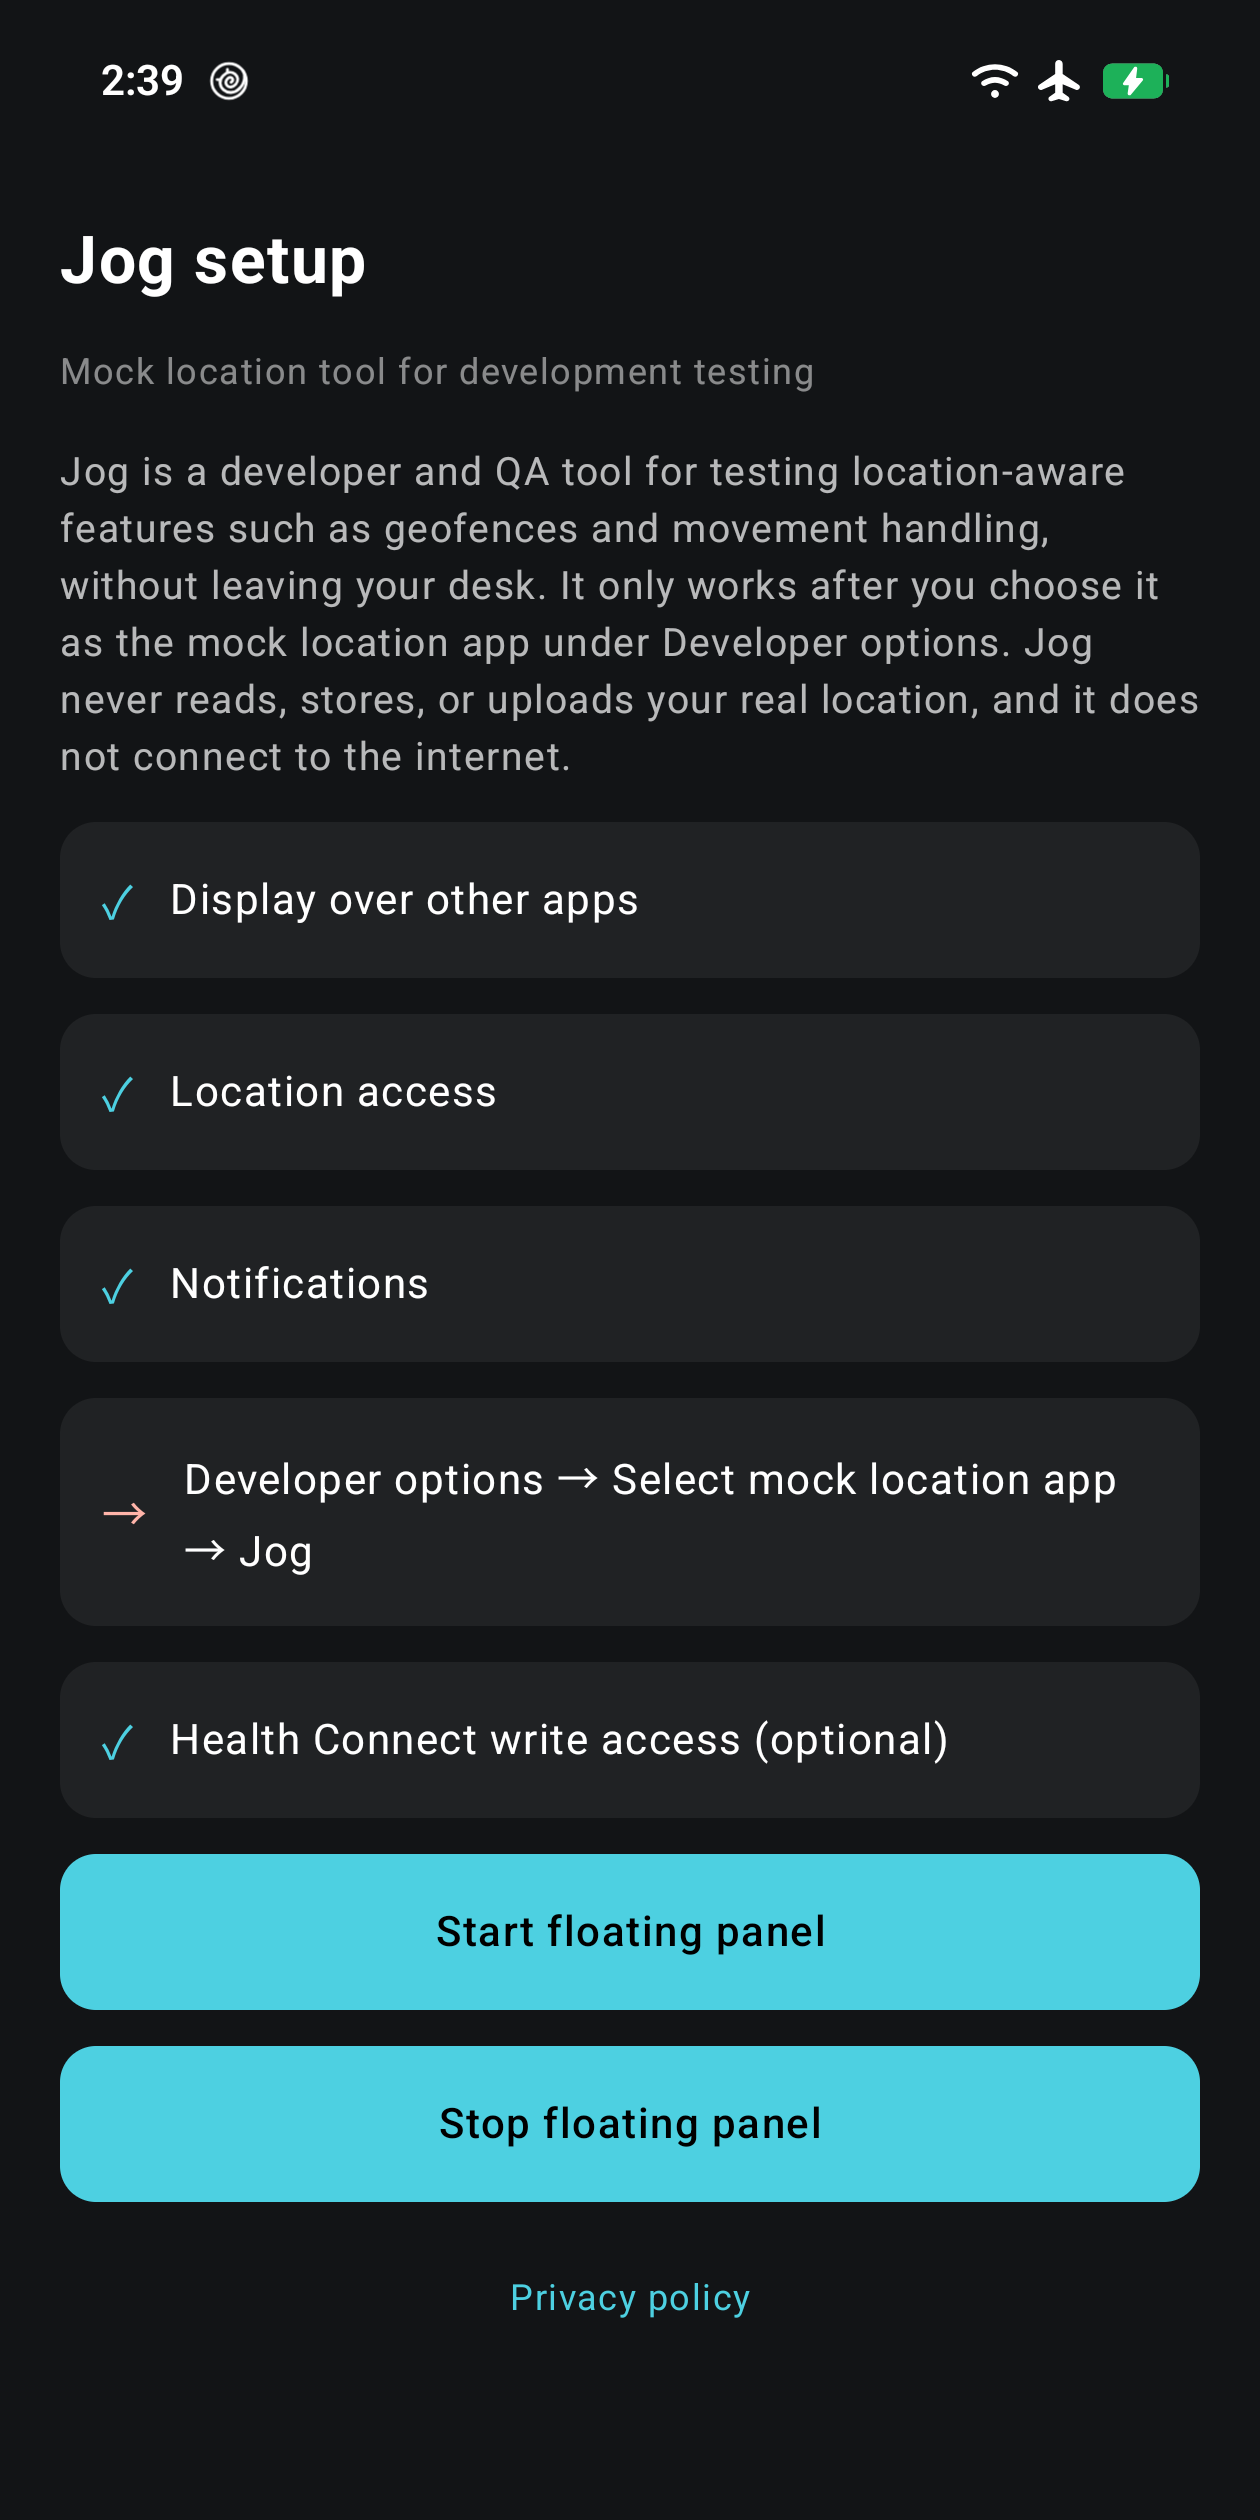
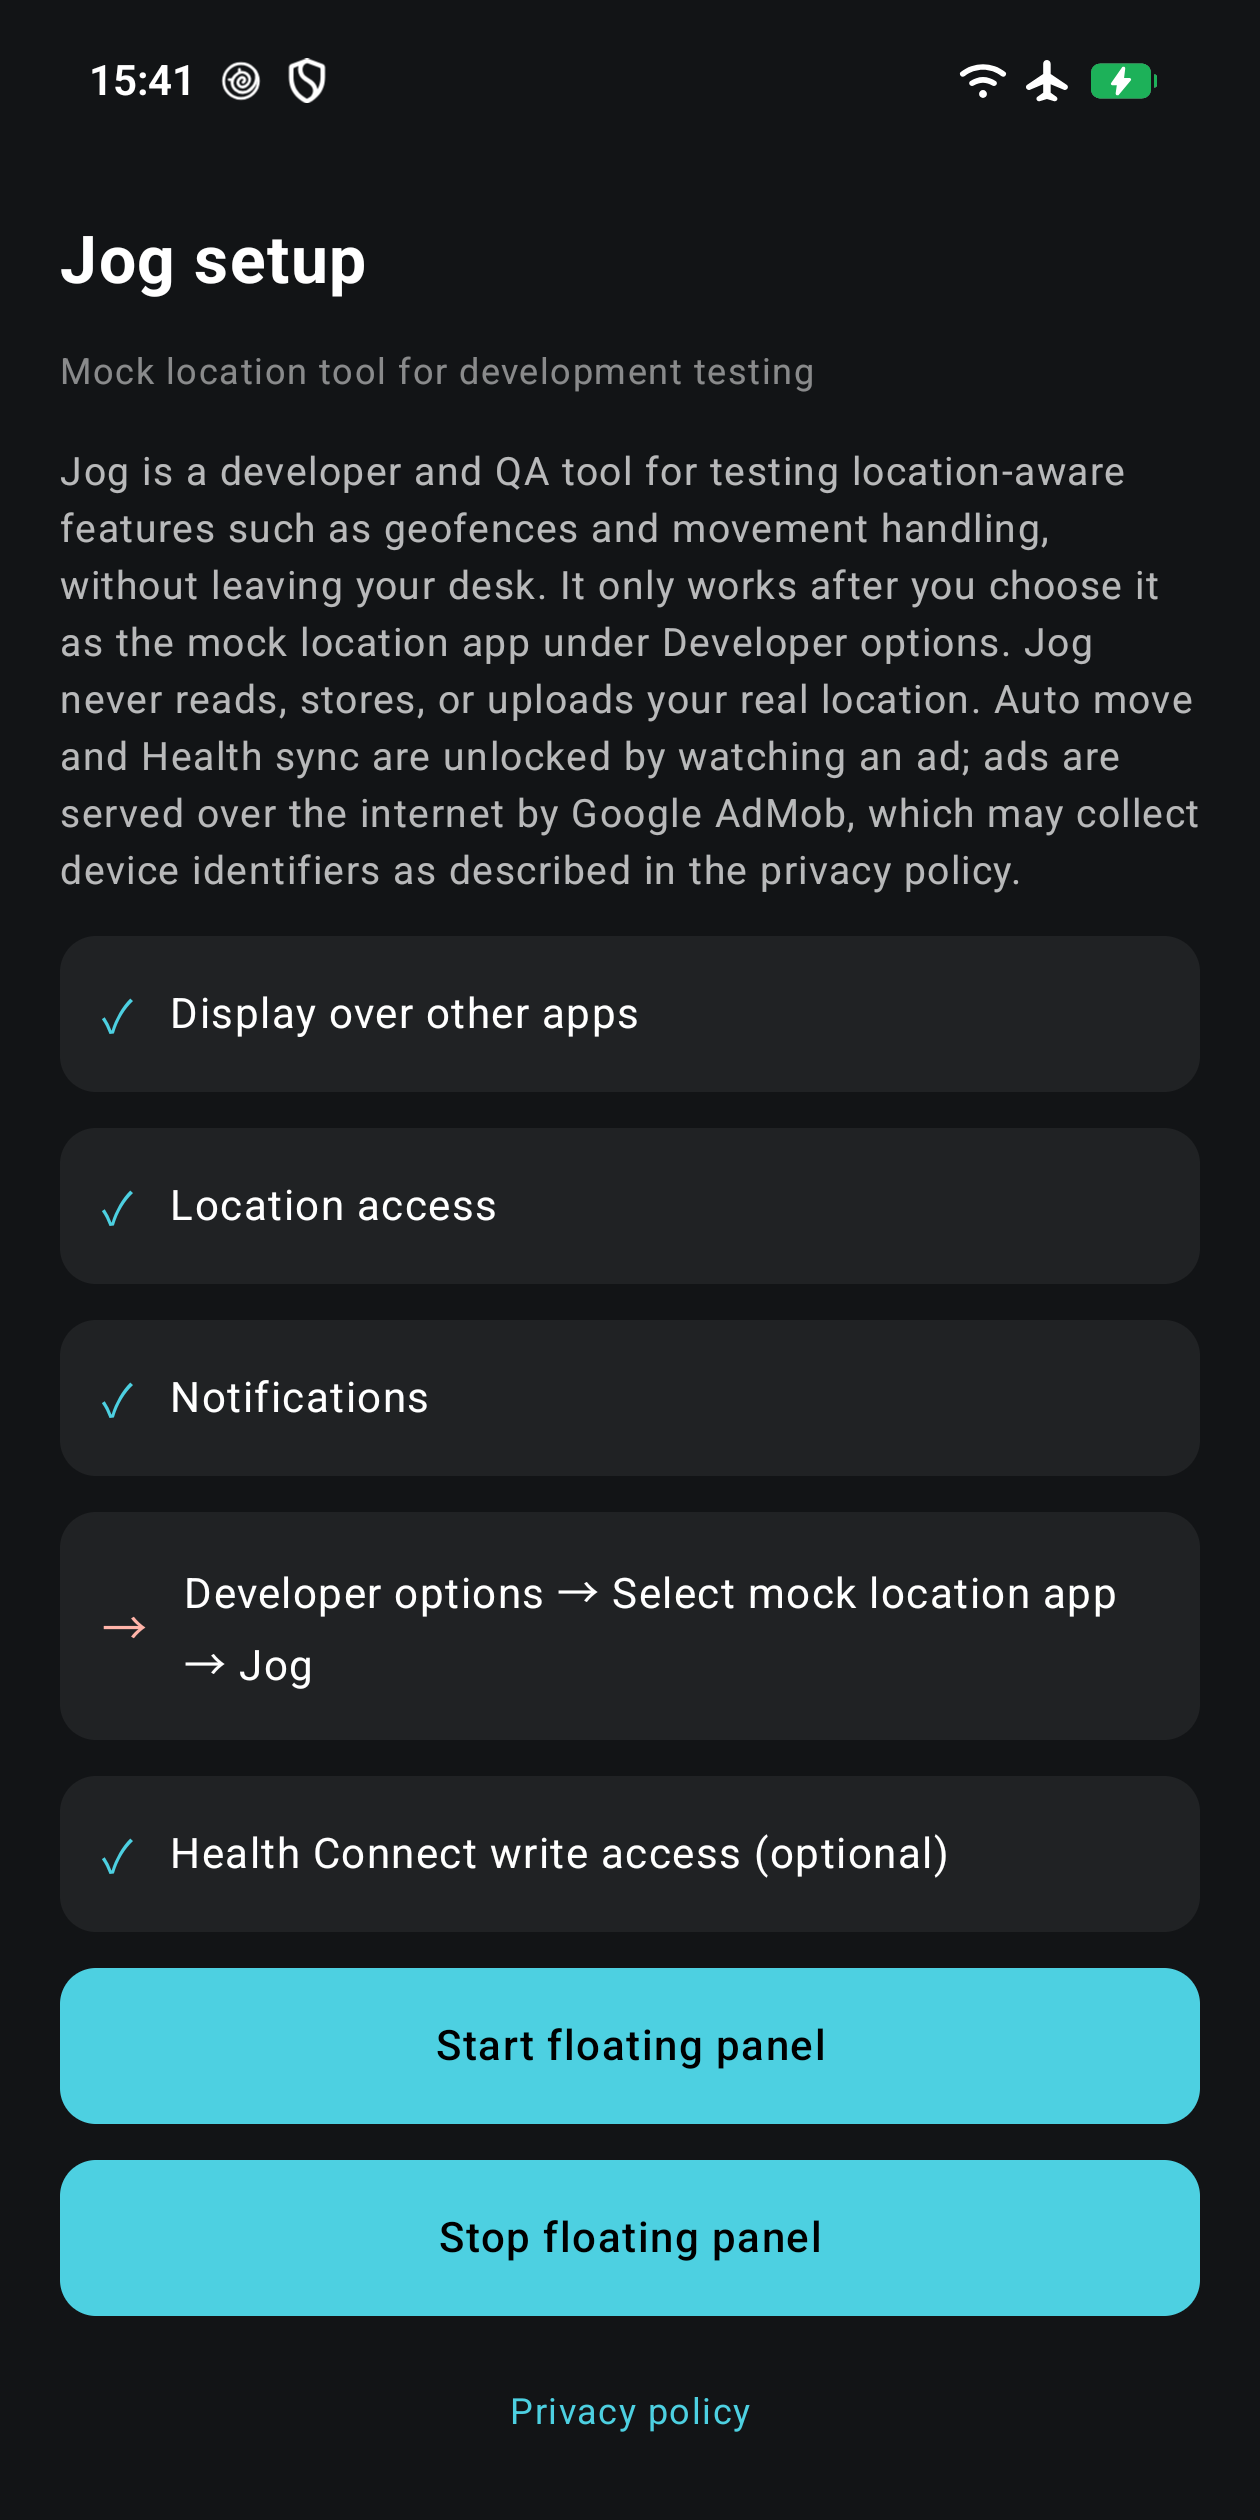
[JogApp] Prepare 3.0.0: turn on rewarded ads, update privacy policy and store listing
[Description]
3.0.0 開始含廣告：自動移動與 Health 同步需看一則獎勵廣告解鎖（程式在 370b7de、530ca82 已完成，
jog.ads 預設 true）。依版本規則，廣告聲明、Advertising ID、Data Safety 要重新申報，升 MAJOR。

- 版本：appVersion 3.0.0（versionCode 30000）。
- 隱私權政策（docs/，push 即公開）：換成含廣告的版本 —— 資料蒐集一節列出 AdMob 會蒐集的
  裝置與廣告識別碼、IP（概略位置）、與廣告及 App 的互動、診斷資訊；新增「你的選擇」小節
  （重設廣告 ID、歐盟同意與廣告隱私設定、不看廣告就不請求廣告）；權限清單加上網路與廣告 ID。
  明寫模擬座標、真實位置與 Health Connect 資料都不提供給 AdMob。生效日期 2026-10-12。
- 商店文案（兩個語系）：加入看廣告解鎖的說明；隱私段落拿掉「不連網」「沒有廣告或第三方 SDK」，
  改為 AdMob 與歐盟同意的說明；權限段落加上網路與廣告 ID。標題不變。
- console-answers.md：含廣告版本的 Ads / Advertising ID / Data safety 答案，Data safety 的資料類型
  與用途對照 Google 官方的 AdMob 資料揭露說明修正（拿掉官方未列的 crash logs）。
- release-notes.md 新增 3.0.0；PLAY_RELEASE.md 版本紀錄補上 3.0.0。
- 截圖：兩個語系的設定頁重拍（用途說明改成提到 AdMob 的版本），其餘三張不變。

[Test]
- bundleRelease：versionCode 30000、versionName 3.0.0、jarsigner 驗證通過；合併後的 manifest 有
  INTERNET、AD_ID、正式的 AdMob APPLICATION_ID 與 UnlockActivity；release 的廣告單元為正式 id、
  UMP 模擬歐盟的設定為空；四個 ABI 的 .so PT_LOAD 對齊皆為 16384。單元測試與 check_style 通過。
- 文案：完整說明英文 2865、繁中 1045 字元（上限 4000）；release notes 347 / 116 字元（上限 500）；
  會貼進 Console 的六段文字對紅線詞彙檢查無命中。
- 設定頁截圖以非模擬歐盟的 debug 拍攝（不會出現「廣告隱私設定」列），1260x2520、RGB。
Not covered: 含廣告的 release build 沒有實機跑過（決定直接推正式版）；AdMob 與 Play 的連結、
app-ads.txt 驗證、Play Console 三張申報尚待帳號持有人完成。

diff --git a/docs/privacy-policy.md b/docs/privacy-policy.md
@@ -5,13 +5,30 @@ title: Jog Privacy Policy
 
 # Jog Privacy Policy
 
-**Effective date: 2026-10-02**
+**Effective date: 2026-10-12**
 
-Jog ("the app") is a mock location tool for development and QA testing, published by WLWorks. This policy explains what the app does with data. The short version: **Jog does not collect, store or transmit any personal data.**
+Jog ("the app") is a mock location tool for development and QA testing, published by WLWorks. This policy explains what the app does with data. The short version: **Jog itself does not collect, store or transmit your personal data. The app shows ads through Google AdMob, and AdMob collects some device data to do so, as described below.**
 
 ## Data collection
 
-Jog does not collect any personal or device data. It contains no analytics, crash reporting, advertising or any other third-party SDK that collects data. The app does not request the INTERNET permission, so it has no way to send data anywhere.
+Jog itself does not collect any personal or device data, and has no analytics or crash reporting of its own.
+
+Jog shows rewarded ads through **Google AdMob**. Auto move and Health sync are unlocked by watching an ad; the rest of the app works without ads. To request and show ads, the AdMob SDK connects to the internet and may collect and share with Google and its advertising partners:
+
+- device and advertising identifiers (such as the Android advertising ID and app set ID),
+- IP address, from which an approximate location may be derived,
+- how you interact with ads and with the app (for example ad views and taps),
+- diagnostic information about app and SDK performance.
+
+Google uses this data for advertising, analytics and fraud prevention. Details: <https://policies.google.com/technologies/partner-sites>
+
+The simulated coordinates you enter in Jog, your real location, and anything Jog writes to Health Connect are **not** shared with AdMob.
+
+### Your choices
+
+- You can reset or delete your advertising ID, or opt out of ad personalisation, in Android Settings → Privacy → Ads.
+- If you are in the European Economic Area, the UK or Switzerland, Jog asks for your consent through Google's consent form before requesting ads. You can change your choice at any time under **Ad privacy choices** on the setup screen. If you do not consent, any ads you watch are non-personalised.
+- If you do not watch an ad, auto move and Health sync stay locked; no ad is requested until you choose to watch one.
 
 ## Permissions and why they are needed
 
@@ -20,6 +37,7 @@ Jog does not collect any personal or device data. It contains no analytics, cras
 - **Display over other apps** (`SYSTEM_ALERT_WINDOW`). Shows the floating control panel while you test another app.
 - **Notifications** (`POST_NOTIFICATIONS`) and **foreground service**. Keeps a persistent notification visible while simulation is running so you can stop it at any time.
 - **Health Connect write access** (`WRITE_STEPS`, `WRITE_DISTANCE`). Optional, and only used by the Health sync feature described below.
+- **Internet access** (`INTERNET`, `ACCESS_NETWORK_STATE`) and **advertising ID** (`AD_ID`). Used only by the Google AdMob SDK to load and show ads.
 
 ## Health Connect
 
@@ -51,13 +69,30 @@ Questions about this policy can be sent to WLWorks at <willy78831@gmail.com>, or
 
 # Jog 隱私權政策
 
-**生效日期：2026-10-02**
+**生效日期：2026-10-12**
 
-Jog（以下稱「本 App」）是 WLWorks 發行的開發與 QA 測試用模擬定位工具。本政策說明本 App 如何處理資料。一句話版本：**Jog 不蒐集、不儲存、不傳輸任何個人資料。**
+Jog（以下稱「本 App」）是 WLWorks 發行的開發與 QA 測試用模擬定位工具。本政策說明本 App 如何處理資料。一句話版本：**Jog 本身不蒐集、不儲存、不傳輸你的個人資料。App 透過 Google AdMob 顯示廣告，AdMob 為此會蒐集部分裝置資料，詳見下文。**
 
 ## 資料蒐集
 
-Jog 不蒐集任何個人或裝置資料。App 內沒有分析、當機回報、廣告或任何其他會蒐集資料的第三方 SDK。App 沒有申請 INTERNET 權限，因此沒有任何管道可以把資料送到外部。
+Jog 本身不蒐集任何個人或裝置資料，也沒有自己的分析或當機回報。
+
+Jog 透過 **Google AdMob** 顯示獎勵廣告。自動移動與 Health 同步需要先看一則廣告才能使用，其餘功能不需要看廣告。為了請求與顯示廣告，AdMob SDK 會連線到網際網路，並可能蒐集下列資料、與 Google 及其廣告合作夥伴分享：
+
+- 裝置與廣告識別碼（例如 Android 廣告 ID、app set ID）
+- IP 位址（可據以推得概略位置）
+- 你與廣告及 App 的互動（例如廣告的曝光與點擊）
+- App 與 SDK 效能相關的診斷資訊
+
+Google 將這些資料用於廣告、分析與防止詐欺。詳情：<https://policies.google.com/technologies/partner-sites>
+
+你在 Jog 輸入的模擬座標、你的真實位置、以及 Jog 寫入 Health Connect 的資料，都**不會**提供給 AdMob。
+
+### 你的選擇
+
+- 你可以在 Android 設定 → 隱私權 → 廣告 重設或刪除廣告 ID，或停用個人化廣告。
+- 如果你在歐洲經濟區、英國或瑞士，Jog 會在請求廣告前透過 Google 的同意表單詢問你的選擇，之後可隨時在設定畫面的**廣告隱私設定**更改。不同意的話，你看到的廣告都是非個人化廣告。
+- 不看廣告的話，自動移動與 Health 同步會維持鎖定；在你選擇觀看之前，App 不會請求任何廣告。
 
 ## 權限與用途
 
@@ -66,6 +101,7 @@ Jog 不蒐集任何個人或裝置資料。App 內沒有分析、當機回報、
 - **顯示在其他應用程式上層**（`SYSTEM_ALERT_WINDOW`）。在你測試其他 App 時顯示懸浮控制面板。
 - **通知**（`POST_NOTIFICATIONS`）與**前景服務**。模擬進行中持續顯示常駐通知，讓你隨時可以停止。
 - **Health Connect 寫入權限**（`WRITE_STEPS`、`WRITE_DISTANCE`）。選用，只有下方說明的 Health 同步功能會用到。
+- **網路存取**（`INTERNET`、`ACCESS_NETWORK_STATE`）與**廣告 ID**（`AD_ID`）。只由 Google AdMob SDK 用來載入與顯示廣告。
 
 ## Health Connect
 

diff --git a/store/console-answers.md b/store/console-answers.md
@@ -214,9 +214,11 @@ Target audience、News、Data safety、Government、Financial、Health、Privacy
   檢查清單見 `PLAY_RELEASE.md` 第 8 節。
 - **Data safety** → 仍是 No：資料只寫進裝置上的 Health Connect，不傳出裝置。送審時照 Console 當下的題目再核對。
 
-### 含廣告的版本（`jog.ads=true`）
+### 含廣告的版本（3.0.0 起，`jog.ads=true`）
 
-以下依 Google 公布的 AdMob SDK 資料揭露說明整理，送審前請對照 AdMob 當時的官方說明再核對一次。
+以下依 Google 公布的 AdMob SDK 資料揭露說明整理（2026-10-07 對照
+<https://developers.google.com/admob/android/privacy/play-data-disclosure>）：SDK 自動蒐集並分享 IP 位址（推估概略位置）、
+使用者與產品的互動、診斷資訊、裝置與帳號識別碼，全部以 TLS 加密傳輸。送審前請再對照一次。
 
 - **Ads** → **Yes, my app contains ads.**
 - **Advertising ID** → **Yes**，用途勾 **Advertising or marketing**。
@@ -228,10 +230,13 @@ Target audience、News、Data safety、Government、Financial、Health、Privacy
 
     | 類別 | 項目 | 用途 |
     |---|---|---|
-    | Location | Approximate location（由 IP 推得） | Advertising or marketing, Analytics, Fraud prevention |
-    | App activity | App interactions | Advertising or marketing, Analytics, Fraud prevention |
-    | App info and performance | Crash logs, Diagnostics | Analytics, Fraud prevention |
-    | Device or other IDs | Device or other IDs | Advertising or marketing, Analytics, Fraud prevention |
+    | Location | Approximate location（由 IP 推得） | Advertising or marketing |
+    | App activity | App interactions | Advertising or marketing, Analytics, Fraud prevention, security, and compliance |
+    | App info and performance | Diagnostics | Analytics, Fraud prevention, security, and compliance |
+    | Device or other IDs | Device or other IDs | Advertising or marketing, Fraud prevention, security, and compliance |
+
+    每一項都答：**Collected** 與 **Shared** 都勾；不是 ephemeral；**Users can't choose**（看廣告解鎖時必須請求廣告）。
+    Health Connect 的步數與距離只寫進裝置上的 Health Connect、不傳出裝置，仍不算 Data Safety 的「蒐集」。
 
 - **Privacy policy** → 網址不變，內容要先換成含廣告的版本（`store/privacy-policy-with-ads.md`）。
 - **Target audience** 維持只勾 18 and over；若改動，AdMob 那邊的兒童導向設定也要一致。
